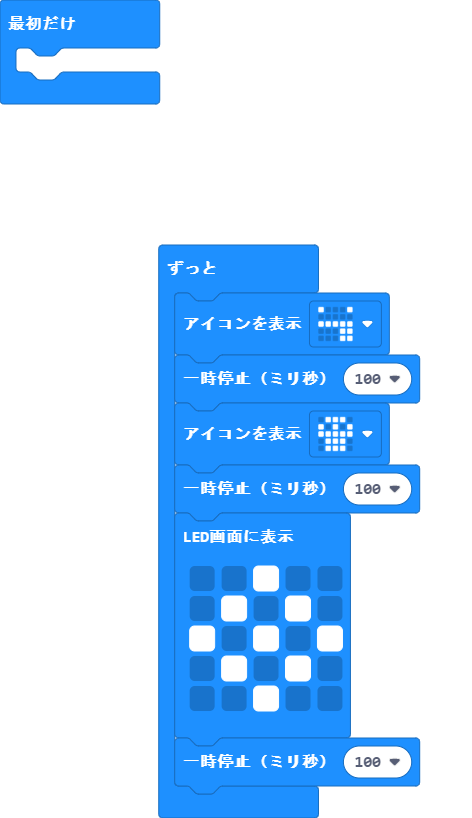
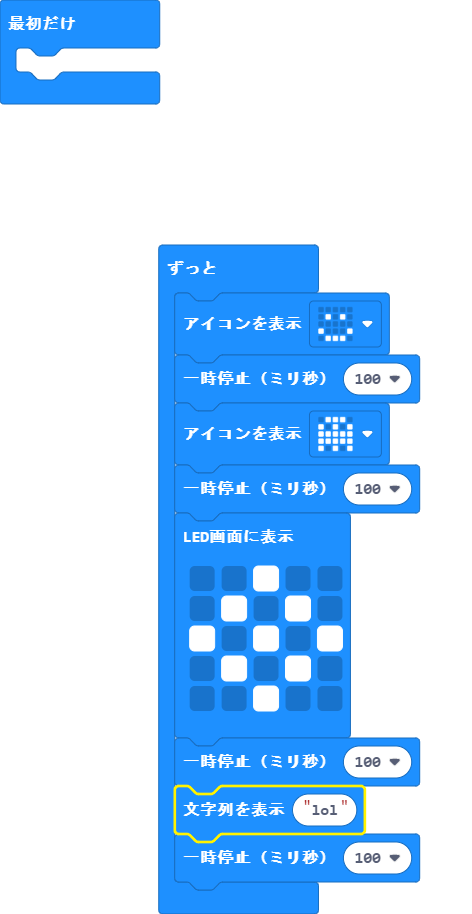
更新 main.blocks, main.ts

Changed region(s): [[0.3263, 0.2445, 0.8898, 0.978], [0.0, 0.0, 0.3559, 0.1528]]

diff --git a/main.ts b/main.ts
@@ -1,7 +1,7 @@
 basic.forever(function () {
-    basic.showIcon(IconNames.Silly)
+    basic.showIcon(IconNames.Happy)
     basic.pause(100)
-    basic.showIcon(IconNames.Skull)
+    basic.showIcon(IconNames.Ghost)
     basic.pause(100)
     basic.showLeds(`
         . . # . .
@@ -10,5 +10,7 @@ basic.forever(function () {
         . # . # .
         . . # . .
         `)
+    basic.pause(100)
+    basic.showString("lol")
     basic.pause(100)
 })
